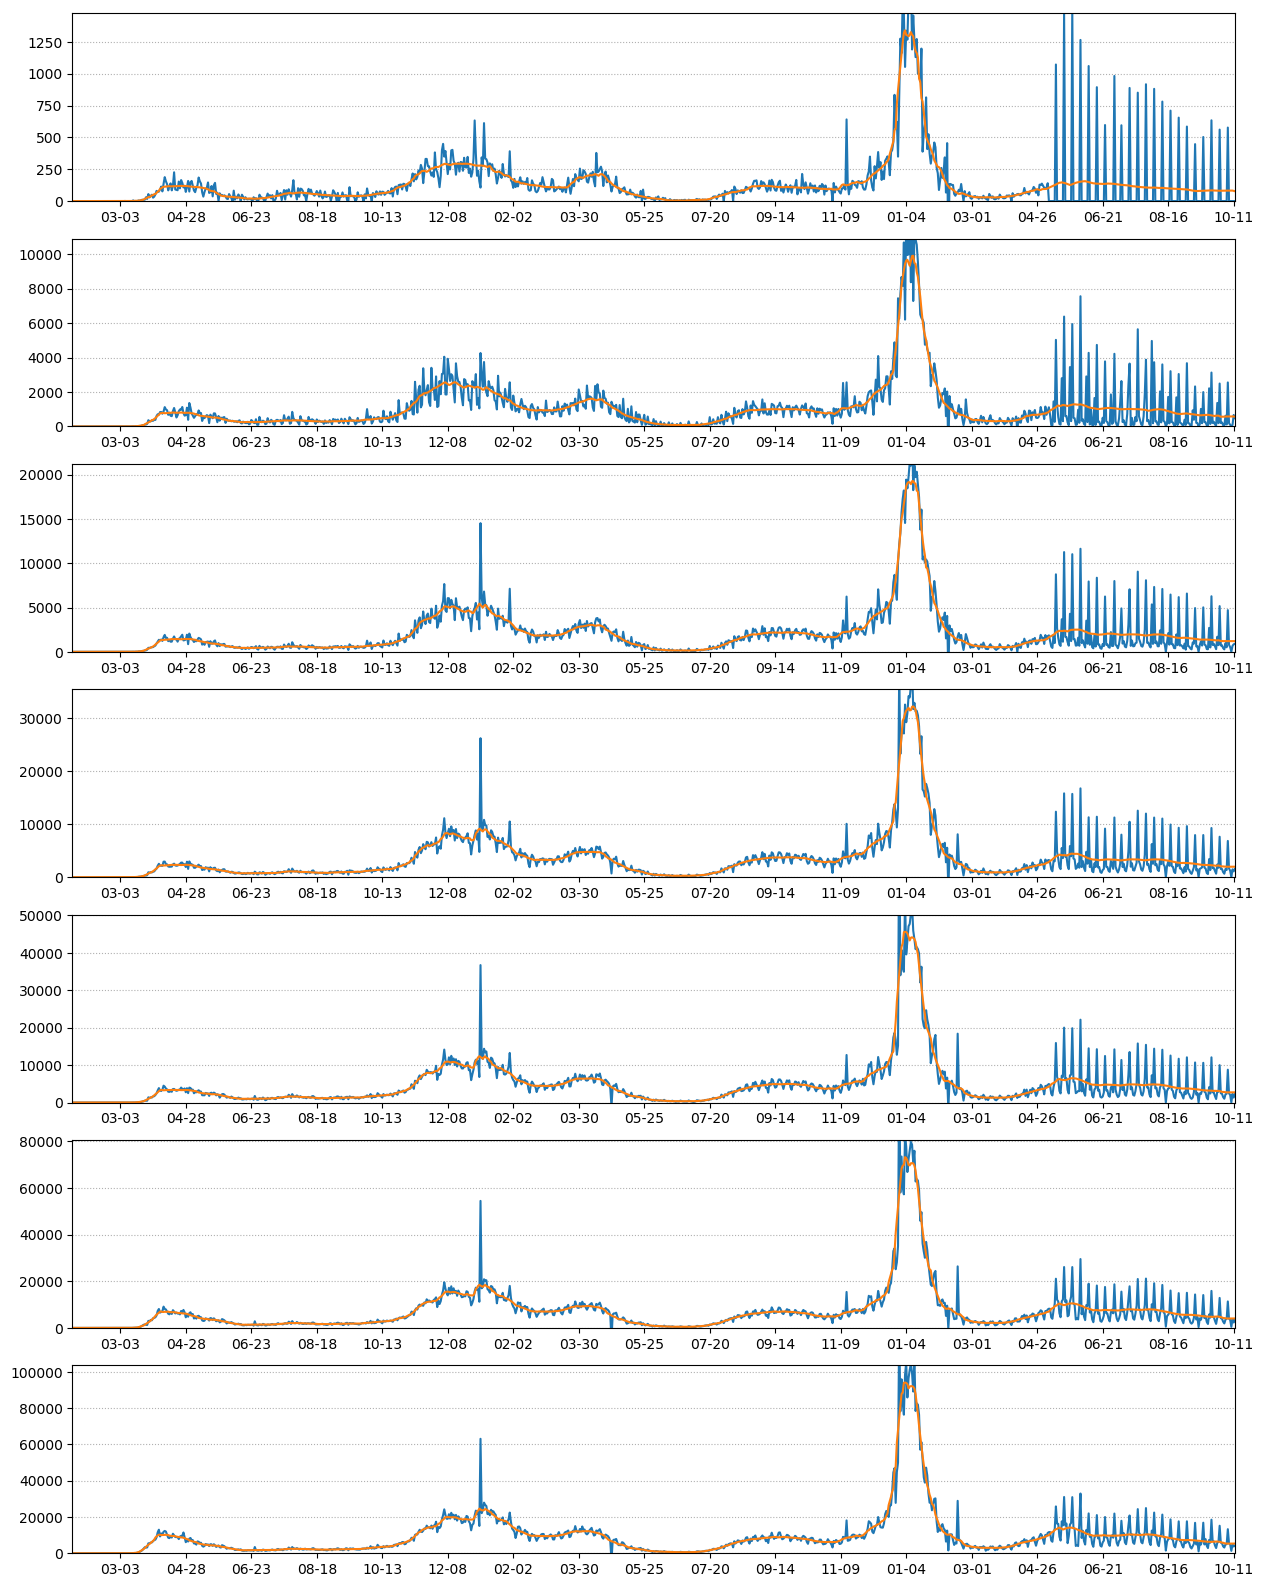
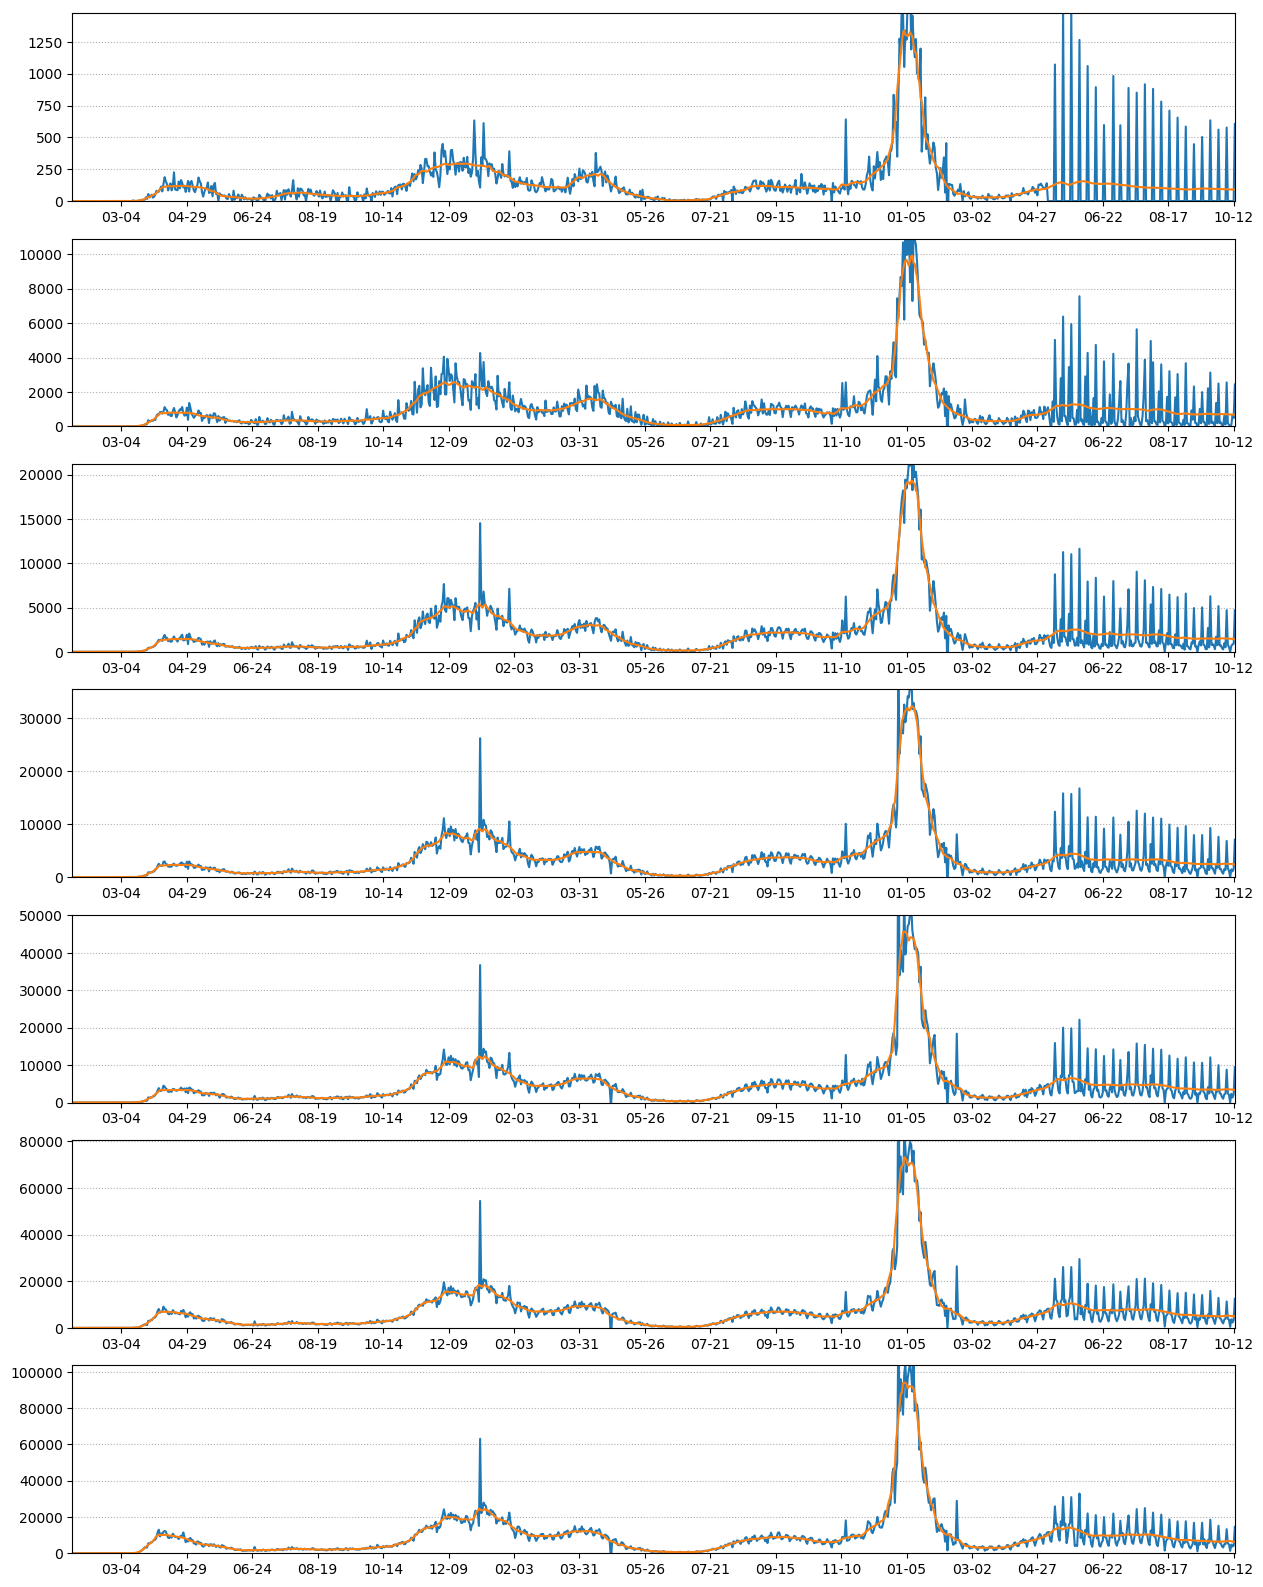
daily forecast

diff --git a/dailymessage.html b/dailymessage.html
@@ -1,46 +1,46 @@
 Delaware County COVID-19 Monitor<br>
-as of 2022-10-11<br>
+as of 2022-10-12<br>
 <table border="1" cellspacing="5" cellpadding="3">
 <tr>
 <td>0</td>
-<td>78</td>
+<td>91</td>
 <td>566747</td>
-<td>13.7</td>
+<td>16.0</td>
 </tr>
 <tr>
 <td>1</td>
-<td>566</td>
+<td>687</td>
 <td>4357104</td>
-<td>12.9</td>
+<td>15.7</td>
 </tr>
 <tr>
 <td>2</td>
-<td>1206</td>
+<td>1453</td>
 <td>8052045</td>
-<td>14.9</td>
+<td>18.0</td>
 </tr>
 <tr>
 <td>3</td>
-<td>1972</td>
+<td>2408</td>
 <td>13327166</td>
-<td>14.7</td>
+<td>18.0</td>
 </tr>
 <tr>
 <td>4</td>
-<td>2729</td>
+<td>3365</td>
 <td>18498878</td>
-<td>14.7</td>
+<td>18.1</td>
 </tr>
 <tr>
 <td>5</td>
-<td>4050</td>
+<td>4934</td>
 <td>27240755</td>
-<td>14.8</td>
+<td>18.1</td>
 </tr>
 <tr>
 <td>6</td>
-<td>5350</td>
+<td>6370</td>
 <td>34871340</td>
-<td>15.3</td>
+<td>18.2</td>
 </tr>
 </table>
